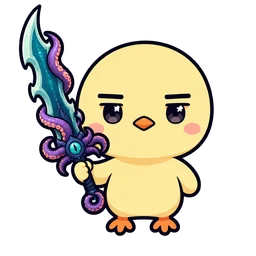
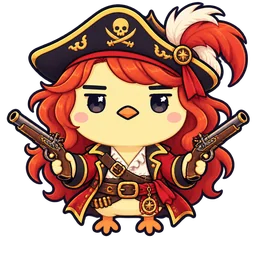
서바이벌: 집중겜을 미스 포츈 코스프레로 교체, 머리 위 룬·아이템 배지 추가
- 배지는 실행 때 그린다(카드·판·결과 얼굴), 못 불러오면 이모지 배지
- 능력(치명타 20%)은 그대로

Claude-Session: https://claude.ai/code/session_018GzTivP446Z4KhefLmvcv5

diff --git a/survivors.html b/survivors.html
@@ -98,6 +98,7 @@ canvas{position:fixed;inset:0;width:100vw;height:100vh;display:block;touch-actio
 .bc{position:relative;min-width:0;display:flex;flex-direction:column;align-items:center;justify-content:flex-start;background:linear-gradient(180deg,#2b2140,var(--card2));border:1px solid var(--line);border-radius:10px;padding:4px 3px 6px;color:var(--txt);font:inherit;font-size:11.5px;font-weight:700;cursor:pointer;line-height:1.25;overflow:hidden}
 .bc .art{display:block;width:100%;aspect-ratio:1/1;object-fit:contain;margin:0 auto 2px}
 .bc .fb{display:block;font-size:30px;line-height:1;padding:12px 0 8px}
+.rc{position:relative}.bdgs{position:absolute;top:1px;left:50%;transform:translateX(-50%);display:flex;gap:2px;pointer-events:none}.bdg{width:16px;height:16px;border-radius:5px;background:rgba(10,12,24,.85);border:1px solid #c8a24a;font-size:10px;line-height:14px;text-align:center;overflow:hidden;display:block}.bdg img{width:100%;height:100%;display:block}
 .rc .art{display:block;width:52px;height:52px;object-fit:contain;margin:0 auto 2px}.rc .fb{display:block;font-size:24px;line-height:52px}.rc.art-lock .art{filter:brightness(0) invert(.42);opacity:.8}
 .bc.lock .art{filter:brightness(0) invert(.42);opacity:.8}.bc.lock .fb{filter:grayscale(1) brightness(.5)}
 .bc small{display:block;color:var(--sub);font-size:10.5px;font-weight:400;word-break:keep-all;overflow-wrap:anywhere}.bc.lock{color:var(--sub)}.bc.lock small{color:var(--mut)}
@@ -393,7 +394,7 @@ const SPR={run:sprite('img/brjang/parts/poses/run.png',96),front:sprite('img/brj
 const ICON={};let DDV=null;
 function champIcon(id){if(ICON[id]||!DDV)return;ICON[id]=sprite(`https://ddragon.leagueoflegends.com/cdn/${DDV}/img/champion/${id}.png`,64);}
 function accIcon(path){if(ICON[path]||!DDV)return;ICON[path]=sprite(`https://ddragon.leagueoflegends.com/cdn/${DDV}/img/${path}.png`,48);}   // 트롤 빌드 아이템·스펠
-try{fetch('https://ddragon.leagueoflegends.com/api/versions.json').then(r=>r.json()).then(v=>{DDV=v[0];for(const k of KIND){champIcon(k.id);(k.acc||[]).forEach(a=>accIcon(a[0]));}for(const b of Object.values(BOSS)){if(b.id)champIcon(b.id);(b.acc||[]).forEach(a=>accIcon(a[0]));}}).catch(()=>{});}catch(e){}
+try{fetch('https://ddragon.leagueoflegends.com/api/versions.json').then(r=>r.json()).then(v=>{DDV=v[0];try{renderRoster();}catch(e){}for(const k of KIND){champIcon(k.id);(k.acc||[]).forEach(a=>accIcon(a[0]));}for(const b of Object.values(BOSS)){if(b.id)champIcon(b.id);(b.acc||[]).forEach(a=>accIcon(a[0]));}}).catch(()=>{});}catch(e){}
 
 // ---------- 🔐 디스코드 로그인(메인 사이트와 같은 저장소 sgg_dc) · 서버 기록 ----------
 const P6_API='https://hth3thmujs.apps.bot-hosting.cloud';
@@ -449,7 +450,7 @@ function setProg(p){try{localStorage.setItem(PK,JSON.stringify(p));}catch(e){}}
 // 👥 클랜원 캐릭터 — 밈은 봇 BRJ_CAMEOS·BRJ_GEAR(사장님 승인분)에서만, 숫자는 시트 STAT_PLAYER·CLASSIC_NORMAL
 const CHARS=[
   {k:'brj',e:'🐤',nm:'브장신',tag:'스타터',q:'논란이 되겠는걸',ds:'🌾 사료 투척으로 시작. 평범하지만 엄.',w:'feed',un:null},
-  {k:'jjg',img:1,e:'🗡',nm:'집중겜',tag:'원딜 · 378판',q:'집중하면 뭐든 벤다',ds:'「치속크라켄」 — 모든 공격 20% 확률 치명타(2배). 🌾 사료 Lv2 시작.',w:'feed',wl:2,crit:.2,un:{t:'처치 누적 300',ok:p=>p.kills>=300,pr:p=>`${Math.min(p.kills,300)}/300`}},
+  {k:'jjg',img:1,bdg:[{u:'https://ddragon.leagueoflegends.com/cdn/img/perk-images/Styles/Precision/LethalTempo/LethalTempoTemp.png',e:'⚡'},{it:6672,e:'🐙'}],e:'🔫',nm:'집중겜',tag:'원딜 · 378판',q:'집중하면 뭐든 벤다',ds:'「치명적 속도 · 크라켄 학살자」 — 미스 포츈 코스프레 선장. 모든 공격 20% 확률 치명타(2배). 🌾 사료 Lv2 시작.',w:'feed',wl:2,crit:.2,un:{t:'처치 누적 300',ok:p=>p.kills>=300,pr:p=>`${Math.min(p.kills,300)}/300`}},
   {k:'mms',img:1,e:'🥲',nm:'망무새',tag:'미드 · 232판',q:'난 망했어',ds:'「난 망했어」 — HP 30% 이하에서 피해 +60%. 🥚 달걀 폭탄 시작.',w:'egg',low:.6,un:{t:'쓰러지기 3회',ok:p=>p.deaths>=3,pr:p=>`${Math.min(p.deaths,3)}/3`}},
   {k:'hrb',img:1,e:'🏄',nm:'조선제일하리보',tag:'정글 · 137판',q:'집집집집집집',ds:'「자크 코스프레」 — 끈적끈적 슬라임 옷으로 이동속도 +20%. 🍟 튀김기 오라 시작.',w:'fryer',spd:.2,un:{t:'5분 생존',ok:p=>p.best>=300,pr:p=>`최고 ${fmt(p.best)}`}},
   {k:'ssu',img:1,e:'✈',nm:'승수',tag:'기내 서비스',q:'승객 여러분, 안전벨트를 매 주세요.',ds:'「기내 서비스」 — 초당 HP 0.8 회복, 받는 피해 -1. 🥫 제로콜라 캔 시작.',w:'can',regen:.8,arm:1,un:{t:'🌾 사료 투척 Lv5',ok:p=>p.w5.feed,pr:p=>p.w5.feed?'완료':'미완'}},
@@ -475,6 +476,11 @@ let CH=CHARS[0];try{const c=localStorage.getItem(CK);const f=CHARS.find(x=>x.k==
 const bossArt=k=>'img/survivors/boss_'+k+'.webp';
 const hasArt=c=>!!(c.boss||c.img);   // 🎨 그림이 있는 캐릭터(보스 · 클랜원) — 클랜원 그림은 공개(REVEAL)된 뒤에만 불러온다
 const artUrl=c=>c.boss?bossArt(c.k):'img/survivors/char_'+c.k+'.webp';
+const BDI={};
+const bdgUrl=b=>b.u||(DDV&&b.it?`https://ddragon.leagueoflegends.com/cdn/${DDV}/img/item/${b.it}.png`:null);   // 🏷 머리 위 배지(룬·아이템 아이콘) — 못 불러오면 이모지 동그라미
+function bdgSpr(b){if(!BDI[b.e]){const u=bdgUrl(b);if(u)BDI[b.e]=sprite(u,48);}return BDI[b.e];}
+function bdgEls(c){const w=document.createElement('span');w.className='bdgs';for(const b of c.bdg||[]){const s=document.createElement('span');s.className='bdg';s.textContent=b.e;const u=bdgUrl(b);
+  if(u){const im=new Image();im.alt='';im.onload=()=>{s.textContent='';s.appendChild(im);};im.src=u;}w.appendChild(s);}return w;}
 const bkey=c=>c.boss?c.k:'c:'+c.k;
 const chLine=c=>c.boss?pickLine(BOSS[c.k].sp0):c.q;   // 🐲 보스 캐릭터의 한 줄 = 봇 레이드 출현 대사
 const chDesc=c=>`<b>${c.e} ${esc(c.nm)}</b> “${esc(chLine(c))}” · ${c.ds}`;
@@ -486,7 +492,7 @@ function renderRoster(){const pg=getProg();const box=$('roster'),bx=$('bossRoste
     if(c.boss){b.className='bc'+(c===CH?' on':'')+(ok?'':' lock');b.setAttribute('aria-label',c.nm+(ok?'':' — 잠김, 해금: '+c.un.t));
       b.appendChild(artEl(c));b.insertAdjacentHTML('beforeend',`${esc(c.sn)}<small>${ok?c.tag:'🔒 '+esc(c.un.t)}</small>`);}
     else{b.className='rc'+(c===CH?' on':'')+(ok?'':' lock');
-      if(!hid&&c.img){b.appendChild(artEl(c));b.insertAdjacentHTML('beforeend',`${esc(c.nm)}<small>${ok?c.tag:esc(c.un.t)}</small>`);if(!ok)b.classList.add('art-lock');}
+      if(!hid&&c.img){b.appendChild(artEl(c));if(c.bdg&&ok)b.appendChild(bdgEls(c));b.insertAdjacentHTML('beforeend',`${esc(c.nm)}<small>${ok?c.tag:esc(c.un.t)}</small>`);if(!ok)b.classList.add('art-lock');}
       else b.innerHTML=hid?`<span class="e">🔒</span>???<small>${met?'조건 달성 · 공개 준비 중':esc(c.un.t)}</small>`:`<span class="e">${ok?c.e:'🔒'}</span>${c.nm}<small>${ok?c.tag:c.un.t}</small>`;}
     b.onclick=()=>{$('chDesc').innerHTML=hid?`🔒 <b>???</b> — ${met?'해금 조건 달성! 캐릭터 공개를 기다려 주세요.':`해금: ${esc(c.un.t)} (${c.un.pr(pg)})`}<br><span class="muted">곧 공개될 클랜원 캐릭터예요.</span>`:ok?chDesc(c):`🔒 <b>${c.e} ${esc(c.nm)}</b> — 해금: ${esc(c.un.t)} (${c.un.pr(pg)})<br>${c.ds}`;
       if(ok){CH=c;try{localStorage.setItem(CK,c.k);}catch(e){}if(hasArt(c))charImg(c);renderRoster();}};
@@ -1192,7 +1198,7 @@ function bumpKey(e){   // 몸에 부딪혀 피해가 들어갈 때 말할 트롤
 const hazards=new Pool(60,()=>({x:0,y:0,life:0,d:8,own:null,osn:0}));   // 🍄 버섯(own/osn 심은 티모 — 도발 말풍선)
 const eshots=new Pool(LOW?100:140,()=>({x:0,y:0,vx:0,vy:0,life:0,d:0,g:'',sl:0,k:0,src:null,sn:0,ox:0,oy:0}));   // k 1 🪝 갈고리(끌어당김) · 2 🌪 회오리(밀쳐냄)
 const BIMG={};function bossImg(k){if(!BIMG[k])BIMG[k]=sprite('img/survivors/boss_'+k+'.webp',200);return BIMG[k];}
-function charImg(c){const k=bkey(c);if(!BIMG[k])BIMG[k]=sprite(artUrl(c),200);return BIMG[k];}
+function charImg(c){for(const b of c.bdg||[])bdgSpr(b);const k=bkey(c);if(!BIMG[k])BIMG[k]=sprite(artUrl(c),200);return BIMG[k];}
 const pickLine=a=>a&&a.length?a[Math.random()*a.length|0]:'';
 function spawnEnemy(kind,mult,boss,at){
   const e=enemies.get();if(!e)return null;
@@ -1700,7 +1706,7 @@ function endRun(won,quit){
     :['크큭.. 다음엔 AP 마오카이다','제발… 한 판만 더','증바람 하실분?','크큭.. 이번 트롤픽도 완벽했군','내 빌드에 문제는 없었다. 팀이 문제였지','서폿 이즈리얼… 이것이 낭만','다음 판은 정글 티모로 간다','ㅋㅋ 방금 그거 의도한 거임'];
   // 🐲 보스 캐릭터로 했으면 그 보스가 말한다 — 클리어는 봇 레이드 승리 대사(win), 쓰러짐·포기는 퇴장 대사(dead). 그림을 못 불러왔으면 예전처럼 흐접새우
   const bi=hasArt(CH)?BIMG[bkey(CH)]:null,bs=!!(bi&&bi.c),face=document.querySelector('#result .face');
-  face.style.backgroundImage=bs?`url(${artUrl(CH)})`:'';face.style.backgroundSize=bs?'contain':'';face.style.backgroundPosition=bs?'50% 45%':'';face.setAttribute('aria-label',bs?CH.nm:'흐접새우');
+  face.style.backgroundImage=bs?`url(${artUrl(CH)})`:'';face.style.backgroundSize=bs?'contain':'';face.style.backgroundPosition=bs?'50% 45%':'';face.setAttribute('aria-label',bs?CH.nm:'흐접새우');face.querySelectorAll('.bdgs').forEach(x=>x.remove());if(bs&&CH.bdg){face.style.position='relative';face.appendChild(bdgEls(CH));}
   $('rSay').textContent=bs&&CH.boss?pickLine(won?BOSS[CH.k].win:BOSS[CH.k].dead):!won&&!quit&&Math.random()<.5?pickLine(DEATH_SAY):SAY[Math.random()*SAY.length|0];   // 💬 쓰러졌을 땐 절반은 도발 마무리 대사
   renderRoster();show('result');submitRun(won);
 }
@@ -2202,7 +2208,9 @@ function draw(){
   if(!blink){cx.save();cx.translate(p.x,p.y);if(p.face<0)cx.scale(-1,1);
     if(spr&&hasArt(CH)){const k=72/Math.max(spr.width,spr.height),w=spr.width*k,h=spr.height*k;
       cx.fillStyle='rgba(0,0,0,.32)';cx.beginPath();cx.ellipse(0,p.r+4,20,6,0,0,7);cx.fill();
-      cx.drawImage(spr,-w/2,p.r+8-h+(p.moving?Math.sin(S.t*14)*1.5:0),w,h);}
+      const by=p.r+8-h+(p.moving?Math.sin(S.t*14)*1.5:0);cx.drawImage(spr,-w/2,by,w,h);
+      if(CH.bdg){const n=CH.bdg.length,bs=17,gp=3,x0=-(n*bs+(n-1)*gp)/2;CH.bdg.forEach((b,i)=>{const bx=x0+i*(bs+gp),by2=by-bs-2,im=bdgSpr(b);cx.save();cx.scale(p.face<0?-1:1,1);cx.fillStyle='rgba(10,12,24,.85)';cx.strokeStyle='#c8a24a';cx.lineWidth=1;cx.beginPath();cx.roundRect?cx.roundRect(bx,by2,bs,bs,5):cx.rect(bx,by2,bs,bs);cx.fill();cx.stroke();
+        if(im&&im.c)cx.drawImage(im.c,bx+1,by2+1,bs-2,bs-2);else{cx.font='11px sans-serif';cx.textAlign='center';cx.textBaseline='middle';cx.fillStyle='#fff';cx.fillText(b.e,bx+bs/2,by2+bs/2+1);cx.textBaseline='alphabetic';}cx.restore();});}}
     else if(spr){const s=52,h=s*spr.height/spr.width;cx.drawImage(spr,-s/2,-h/2-4+(p.moving?Math.sin(S.t*18)*2:0),s,h);}
     else{cx.fillStyle='#212636';cx.strokeStyle='#f5c04a';cx.lineWidth=2;cx.beginPath();cx.arc(0,0,p.r+4,0,7);cx.fill();cx.stroke();cx.scale(p.face<0?-1:1,1);cx.font='22px sans-serif';cx.textAlign='center';cx.textBaseline='middle';cx.fillText(CH.e,0,1);cx.textBaseline='alphabetic';cx.font='bold 11px sans-serif';cx.fillStyle='#e7eaf3';cx.fillText(CH.nm,0,p.r+18);}
     cx.restore();}

diff --git a/tooling/improve/ideas/P-6-brj-survivors.md b/tooling/improve/ideas/P-6-brj-survivors.md
@@ -27,7 +27,7 @@
 ## 클랜원 캐릭터 그림 — 방식 2: 브장신 + 시그니처 소품 (사장님 선택)
 | 캐릭터 | 능력 | 소품(출처) | 새로 뽑을 그림 |
 |---|---|---|---|
-| 🗡 집중겜 | 치명타 20% | 치속크라켄(BRJ_GEAR g_kraken) | 크라켄 검을 든 브장신 |
+| 🔫 집중겜 | 치명타 20% | 치속크라켄 → 미스 포츈 코스프레 + 머리 위 배지(치명적 속도 룬·크라켄 학살자 아이템) | 붉은 가발·삼각모·쌍권총 병아리 |
 | 🥲 망무새 | HP 30%↓ 피해 +60% | "난 망했어"(BRJ_CAMEOS) | 울상 + 머리 위 먹구름 |
 | 🏄 조선제일하리보 | 이동속도 +20% | 다대포 서핑보드(g_surf) | 자크 코스프레(연두 슬라임 옷) 병아리 |
 | ✈ 승수 | 초당 회복 0.8·받는 피해 -1 | 기내 서비스(공개 밈 기반 · 키 `ssu`) | 승무원 제복 + 쟁반 든 병아리 |
@@ -39,7 +39,7 @@
 ### 그림 제작 완료 (2026-09-30) — 8종 `img/survivors/char_<key>.webp` (256px WebP, 10~22 KB), survivors.html 에 연결, `REVEAL=false` 로 숨김 — 공개는 사장님 결정
 - 레시피: 환경에 키 없음(세션 프록시가 인증) → `POST https://api.openai.com/v1/images/edits` 멀티파트(model=gpt-image-2, image=front.png, quality=low, size=1024x1024, background=transparent, output_format=png, prompt). 프록시가 ~30초에 끊어 medium 은 실패, low 는 ~20초. 분당 입력 이미지 5장 제한이라 동시 4개 이하·429 는 재시도. 결과는 회색/어두운 배경에 합성해 눈으로 확인(contact sheet).
 - 프롬프트 틀: `Keep this yellow chick character exactly as it is — same head shape, face, cheeks, beak, feet, outline and art style — and it is <소품>. Front view, full body, centered, transparent background, same art style as the original, no text, no letters, no numbers.`
-- 소품 문구: jjg = holding a big sword with a kraken tentacle-themed blade · mms = sad teary face + small dark rain cloud above its head · hrb = slime-monster costume (translucent lime-green suit and hood, goo drips, face visible) · ssu = flight attendant (navy jacket, cap, red neckerchief, serving tray, charming smile) · amd = small picket sign, blank with a heart icon · ildj = porcelain half mask, dark-and-white gold-trimmed coat, tall hat, slim pistol cane · kyo = cat ears + hamburger · ddmj = small iron helmet + brick-pattern shield.
+- 소품 문구: jjg = pirate bounty-hunter captain (fiery red-orange wavy wig, tricorn hat with feather, red-and-gold coat, a pistol in each wing; 초안은 크라켄 검 — 교체). 머리 위 배지 2개(⚡ 치명적 속도 룬 · 🐙 크라켄 학살자 6672)는 그림에 굽지 않고 실행 때 그린다(Data Dragon 이 이 환경에서 막혀 있음 — `bdg` 필드, 카드·판·결과 얼굴, 못 불러오면 이모지 배지) · mms = sad teary face + small dark rain cloud above its head · hrb = slime-monster costume (translucent lime-green suit and hood, goo drips, face visible) · ssu = flight attendant (navy jacket, cap, red neckerchief, serving tray, charming smile) · amd = small picket sign, blank with a heart icon · ildj = porcelain half mask, dark-and-white gold-trimmed coat, tall hat, slim pistol cane · kyo = cat ears + hamburger · ddmj = small iron helmet + brick-pattern shield.
 - 전원 첫 시도에 통과(8장 + 폐기한 초안 3장: 방패 · 서핑보드 · 물약병 · 바벨은 주인 요청으로 교체).
 - 연결: 카드(`artEl`) · 판 중 스프라이트(`charImg`) · 결과 얼굴 — 보스 그림과 같은 경로(`hasArt`/`artUrl`). `shown()` 이 false 인 캐릭터는 그림을 요청하지 않는다.
 
